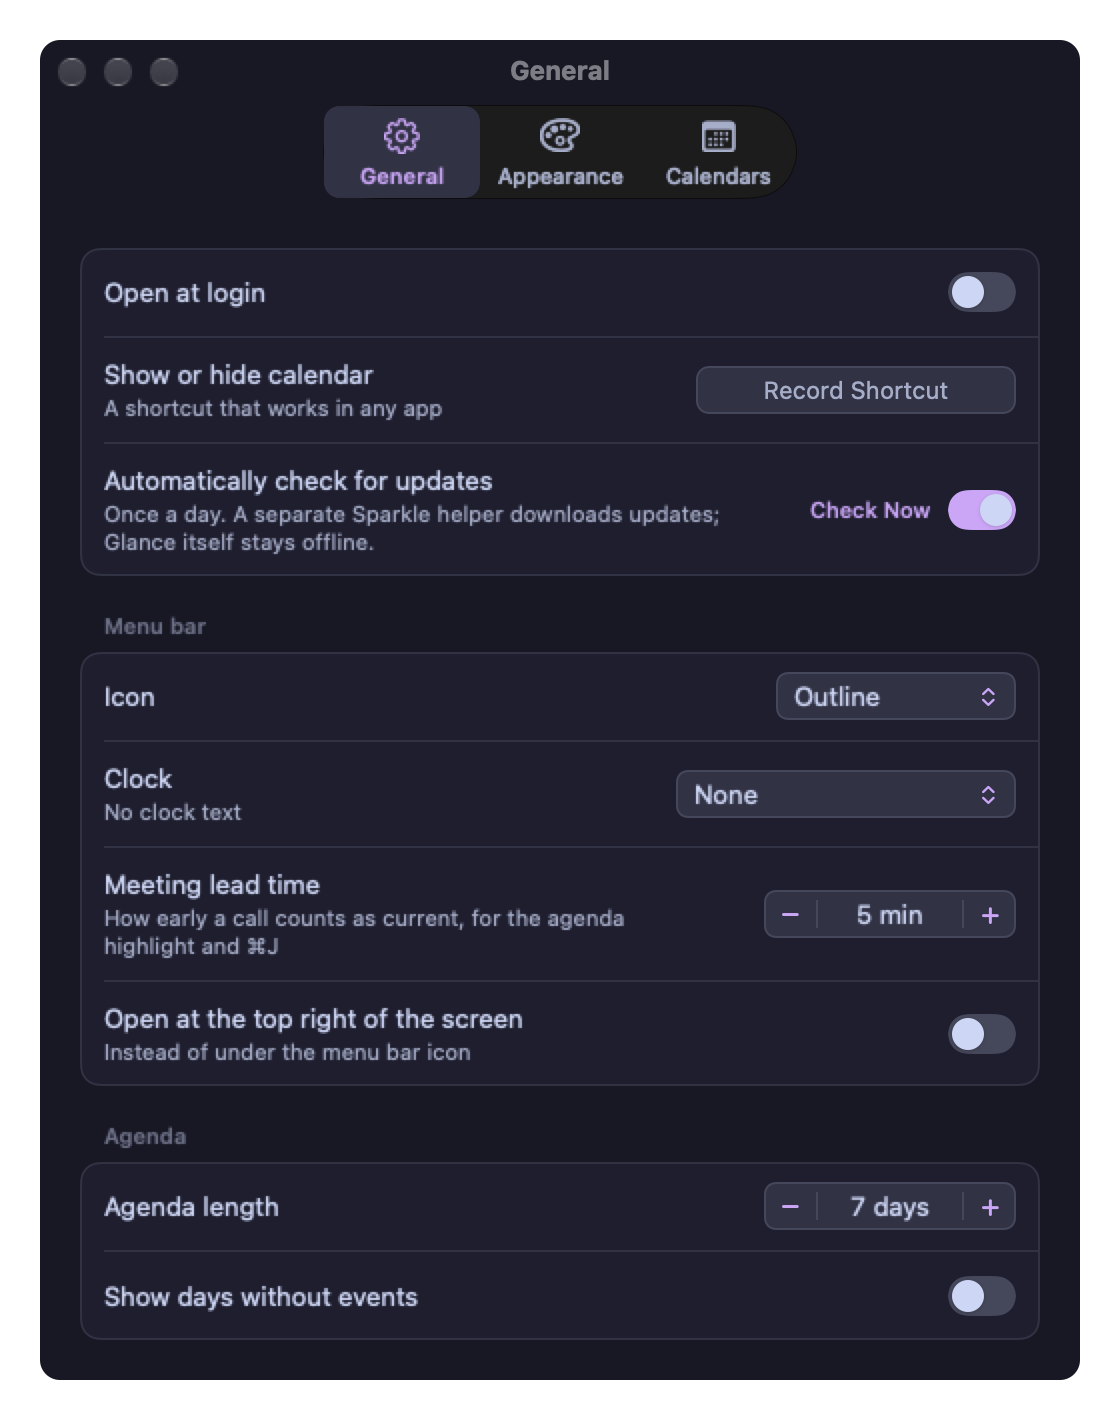
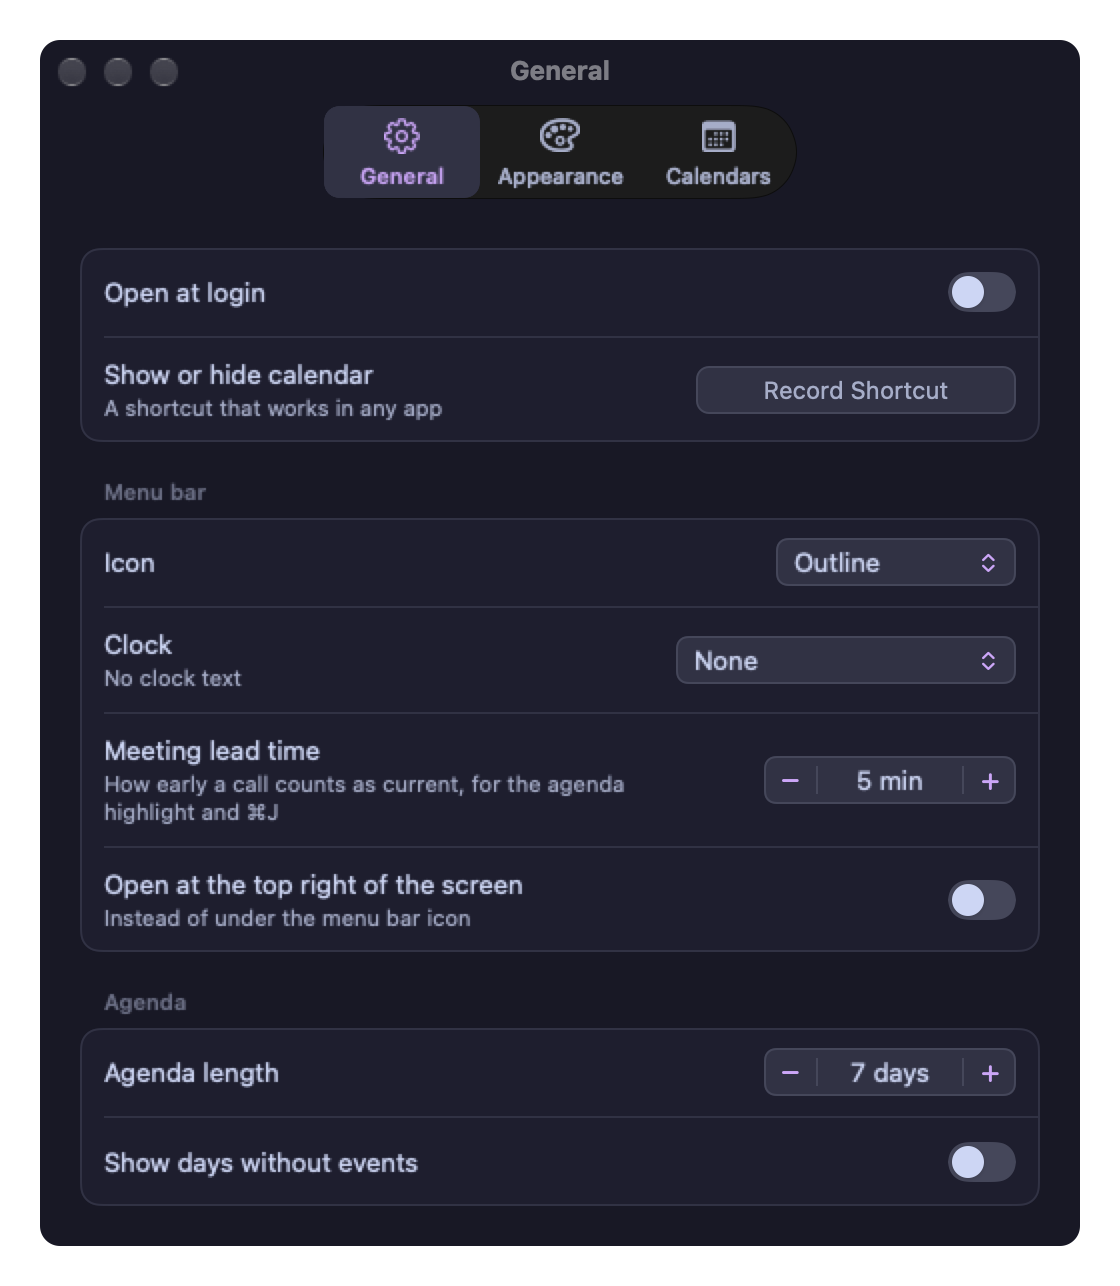
Sell the store build and point at the source
The site still offered a 1.9 MB zip and promised Sparkle auto-updates, none of
which exist any more. It now sends people to the App Store and says plainly
that the source is MIT and buildable.

Regenerates the screenshots too. The old general-settings render still showed
the "Automatically check for updates" row, which the app lost when the updater
went: a stale image under a marketing URL Apple is reviewing.

Also corrects two description claims against the code — there are no
dependencies, and the meeting-link detection covers six hosts, not four.

diff --git a/site/index.html b/site/index.html
@@ -4,13 +4,13 @@
 <meta charset="utf-8">
 <meta name="viewport" content="width=device-width, initial-scale=1">
 <title>Glance — a calendar in your menu bar</title>
-<meta name="description" content="A small native macOS menu bar calendar. Catppuccin themes, meeting join links, event editing. No account, no network access.">
-<meta name="theme-color" content="#1e1e2e">
+<meta name="description" content="A small native macOS menu bar calendar. Catppuccin themes, meeting join links, event editing. No account, no network access. $0.99 on the Mac App Store.">
+<meta name="theme-color"> content="#1e1e2e">
 <link rel="canonical" href="https://glancecal.com/">
 <meta property="og:type" content="website">
 <meta property="og:url" content="https://glancecal.com/">
 <meta property="og:title" content="Glance — a calendar in your menu bar">
-<meta property="og:description" content="A small native macOS menu bar calendar. Catppuccin themes, meeting join links, event editing. No account, no network access.">
+<meta property="og:description" content="A small native macOS menu bar calendar. Catppuccin themes, meeting join links, event editing. No account, no network access. $0.99 on the Mac App Store.">
 <meta property="og:image" content="https://glancecal.com/img/banner-mocha.png">
 <meta property="og:image:width" content="2560">
 <meta property="og:image:height" content="940">
@@ -40,15 +40,16 @@
       Catppuccin flavours.
     </p>
     <div class="actions">
-      <a class="btn primary" href="https://github.com/steveafrost/Glance/releases/latest/download/Glance-1.0.3.zip">
-        Download for macOS
-        <span class="btn-meta">1.0.3 · 1.9 MB</span>
+      <a class="btn primary" href="https://apps.apple.com/app/id6833298551">
+        Get it on the Mac App Store
+        <span class="btn-meta">$0.99 · macOS 26 or later</span>
       </a>
       <a class="btn ghost" href="https://github.com/steveafrost/Glance">Source on GitHub</a>
     </div>
     <p class="fineprint">
-      Requires macOS 26 or later. Signed with a Developer ID, notarized by Apple,
-      and it updates itself.
+      Requires macOS 26 or later. The App Store handles installation and
+      updates. Prefer to build it yourself? The full source is MIT-licensed and
+      on GitHub.
     </p>
   </div>
 
@@ -78,7 +79,7 @@
   </div>
   <div class="strip-item">
     <span class="strip-label">Built with</span>
-    <span class="strip-value">Swift 6, AppKit, one dependency</span>
+    <span class="strip-value">Swift 6, AppKit, no dependencies</span>
   </div>
 </section>
 
@@ -98,8 +99,8 @@
     <article>
       <h3>Meetings become one click</h3>
       <p>
-        Zoom, Meet, Teams and Webex links are found in an event's location, URL or
-        notes. The agenda grows a join button that opens the native app when you
+        Links from Zoom, Meet, Teams, Webex, Whereby and Chime are found in an
+        event's location, URL or notes. The agenda grows a join button that opens the native app when you
         have it, and highlights the call that is current or about to start.
         ⌘J joins.
       </p>
@@ -133,10 +134,11 @@
     </article>
 
     <article>
-      <h3>Honest about updates</h3>
+      <h3>Installed from the App Store</h3>
       <p>
-        Checks once a day. When one is waiting the menu item says so and the icon
-        gets a dot, rather than throwing a window in front of your work.
+        One supported binary, delivered by Apple and updated by Apple. The source
+        is public if you would rather read it or build it for yourself, but the
+        store build is the one that gets fixes.
       </p>
     </article>
   </div>
@@ -154,7 +156,7 @@
     <figure>
       <img class="shot" data-latte="img/settings-general-latte.png" data-dark="img/settings-general-mocha.png"
            src="img/settings-general-mocha.png" width="380"
-           alt="Settings, General tab: open at login, the show-or-hide shortcut, update checks, menu bar icon style, clock format, meeting lead time and agenda length.">
+           alt="Settings, General tab: open at login, the show-or-hide shortcut, menu bar icon style, clock format, meeting lead time and agenda length.">
       <figcaption>General</figcaption>
     </figure>
     <figure>
@@ -187,10 +189,9 @@
       could send anything anywhere.
     </p>
     <p>
-      Updates are the one exception, and they don't run inside the app: Sparkle's
-      separate Downloader service fetches the update feed and archive from this
-      project's GitHub Releases, with system profiling off. It learns nothing
-      about you.
+      There is no exception, and no updater inside the app. Updates arrive through
+      the App Store, which macOS handles for every app you install that way. The
+      store build ships without a networking entitlement at all.
     </p>
     <p class="muted">
       <code>script/check-offline.sh</code> and the offline guard tests fail the
@@ -210,10 +211,17 @@
 <section class="support">
   <div class="support-inner">
     <div>
-      <h2>Glance is free and MIT-licensed</h2>
+      <h2>$0.99 once, and the source is MIT</h2>
       <p>
-        No subscription, no upsell, no "pro". If it earns a place in your menu
-        bar and you feel like it, you can buy me a coffee.
+        No subscription, no upsell, no "pro" tier. A one-off 99 cents on the Mac
+        App Store pays for the signing certificate and the time it took.
+      </p>
+      <p>
+        The complete source is
+        <a href="https://github.com/steveafrost/Glance">on GitHub</a> under the
+        MIT licence, so you can read exactly what the app does, build it
+        yourself with Xcode, and change anything you like. Nothing is held back
+        for the paid build.
       </p>
     </div>
     <a class="bmc" href="https://buymeacoffee.com/stevefrost">
@@ -254,10 +262,28 @@
     </p>
   </details>
   <details>
-    <summary>What happens if I stop paying for the domain?</summary>
+    <summary>Can I build it from source instead?</summary>
     <p>
-      Nothing. The app is on GitHub Releases and updates come from there, so the
-      domain is only this page.
+      Yes. The repository is complete and MIT-licensed. You need Xcode 27 and
+      macOS 26 or later:
+    </p>
+    <pre class="build"><code>git clone https://github.com/steveafrost/Glance
+cd Glance
+script/test.sh          <span class="c"># 127 tests</span>
+script/build-app.sh     <span class="c"># build/Glance.app</span></code></pre>
+    <p>
+      It signs with whatever "Apple Development" identity is in your keychain, or
+      ad-hoc if there is none. A locally built copy is for your own use; the
+      store build is the one with a supported install path.
+    </p>
+  </details>
+  <details>
+    <summary>Why does it cost 99 cents?</summary>
+    <p>
+      It is the smallest price the App Store allows, and it covers the annual
+      developer fee and signing certificate. The source is still MIT and free to
+      build; the 99 cents buys the convenience of a signed, sandboxed, updated
+      copy.
     </p>
   </details>
   <details>
@@ -274,9 +300,9 @@
 <footer>
   <span>Glance — MIT © 2026 Steve Frost</span>
   <nav>
+    <a href="https://apps.apple.com/app/id6833298551">Mac App Store</a>
     <a href="https://github.com/steveafrost/Glance">GitHub</a>
-    <a href="https://github.com/steveafrost/Glance/releases">Releases</a>
-    <a href="https://github.com/steveafrost/Glance/blob/main/LICENSE">License</a>
+    <a href="https://github.com/steveafrost/Glance/blob/main/LICENSE">MIT License</a>
     <a href="https://buymeacoffee.com/stevefrost">Buy me a coffee</a>
   </nav>
   <span class="credits">

diff --git a/site/style.css b/site/style.css
@@ -349,6 +349,19 @@ h2 {
 .privacy-code code { font-size: 0.8rem; line-height: 1.7; color: var(--text); }
 .privacy-code .c { color: var(--subtext1); }
 
+/* A terminal-coloured build snippet inside the FAQ. The panic here is that a
+   reader who wants to compile it can copy the commands without guessing. */
+pre.build {
+  background: var(--crust);
+  border: 1px solid var(--surface0);
+  border-radius: 10px;
+  padding: 1rem 1.2rem;
+  overflow-x: auto;
+  margin: 0.9rem 0;
+}
+pre.build code { font-size: 0.82rem; line-height: 1.9; color: var(--text); }
+pre.build .c { color: var(--subtext1); }
+
 /* ── support / BMC ───────────────────────────────────────── */
 
 .support { background: var(--mantle); }
